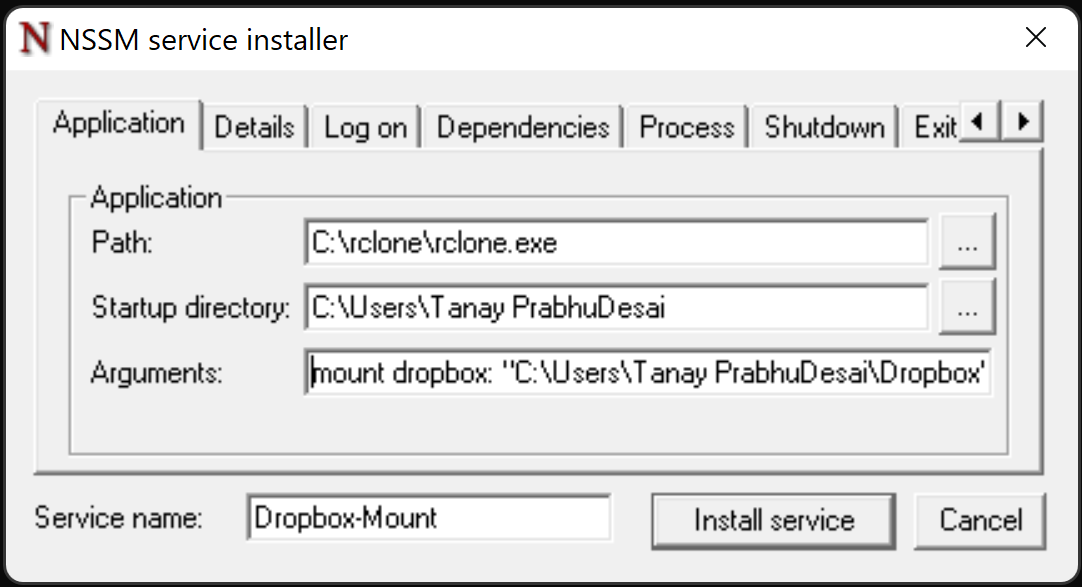
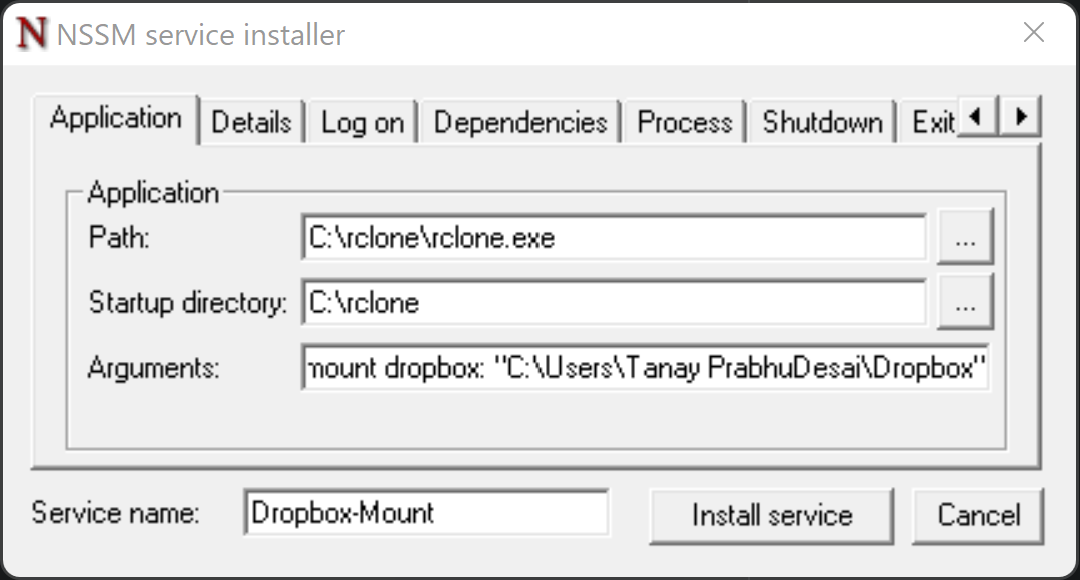
Fix windows setup  part in the blog

diff --git a/conf.py b/conf.py
@@ -71,4 +71,6 @@ pygments_style = "sphinx"
 pygments_dark_style = "monokai"
 
 # Setup Google Analytics
-googleanalytics_id = os.environ["GOOGLE_ANALYTICS_ID"]
+googleanalytics_id = "UA-00000000-0"
+if "GOOGLE_ANALYTICS_ID" in os.environ:
+    googleanalytics_id = os.environ["GOOGLE_ANALYTICS_ID"]

diff --git a/posts/2022-07-01-password-management-setup.md b/posts/2022-07-01-password-management-setup.md
@@ -424,7 +424,7 @@ Enter the following details:
 Path: C:\rclone\rclone.exe
 Or enter your rclone installation path above
 Enter the startup directory as your user directory
-Startup directory: C:\Users\<Your Name>
+Startup directory: C:\Users\rclone
 In the Arguments, enter the arguments that you want to pass to the rclone command which would be as follows:
 ```
 mount dropbox: "C:\Users\<Your Name>\Dropbox"
